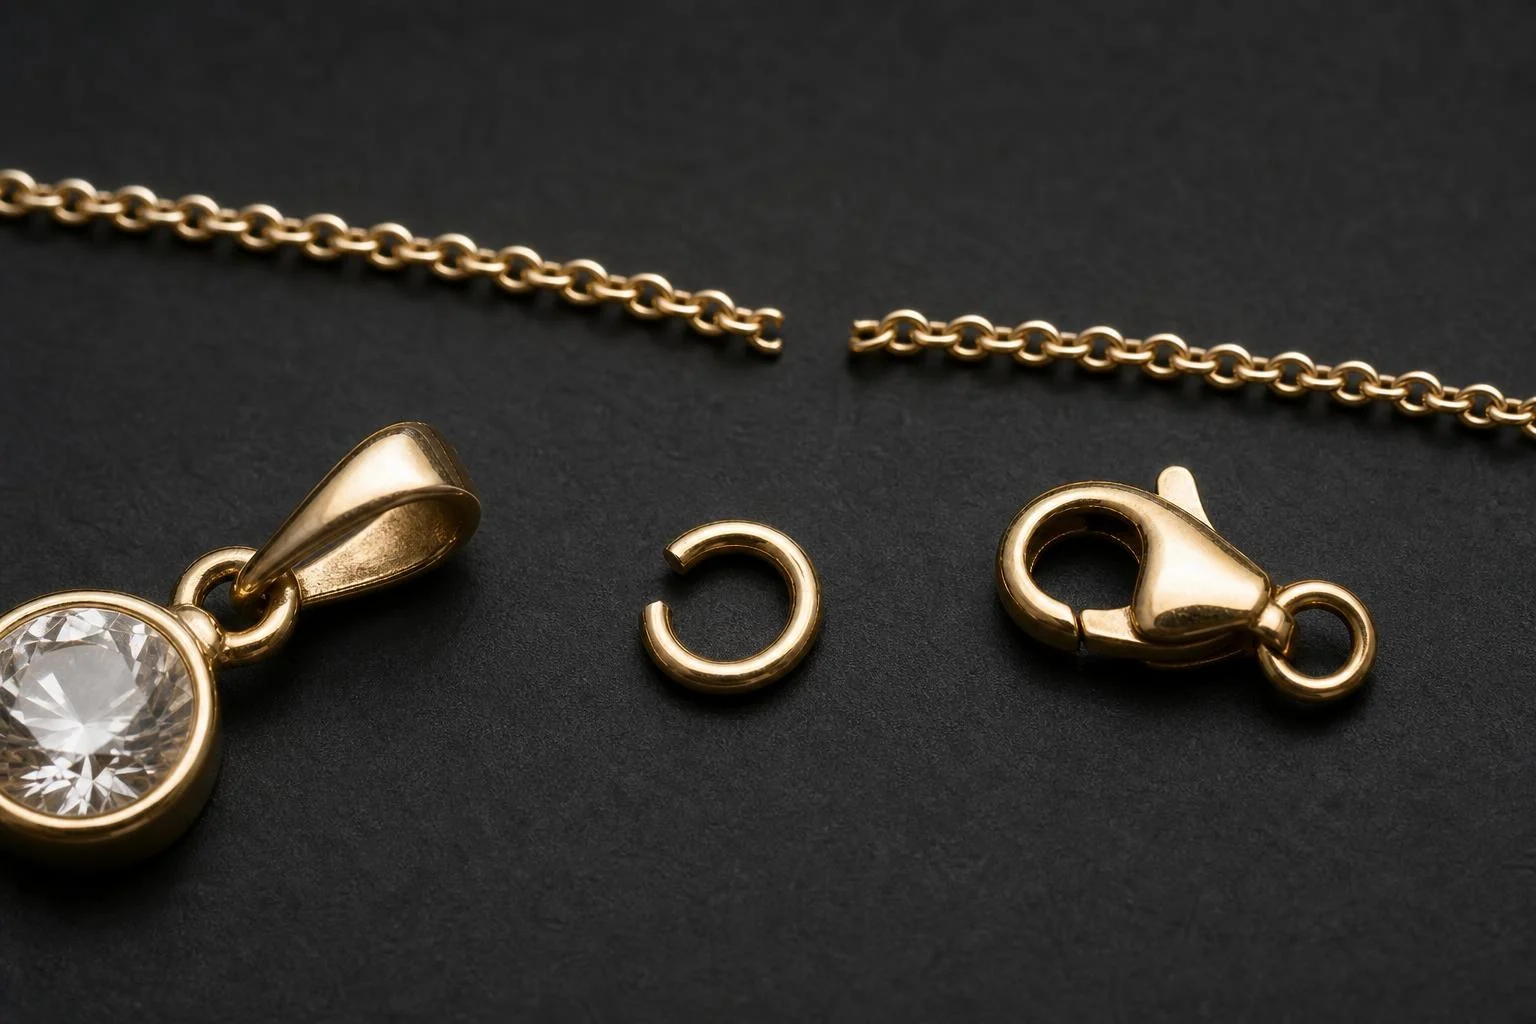
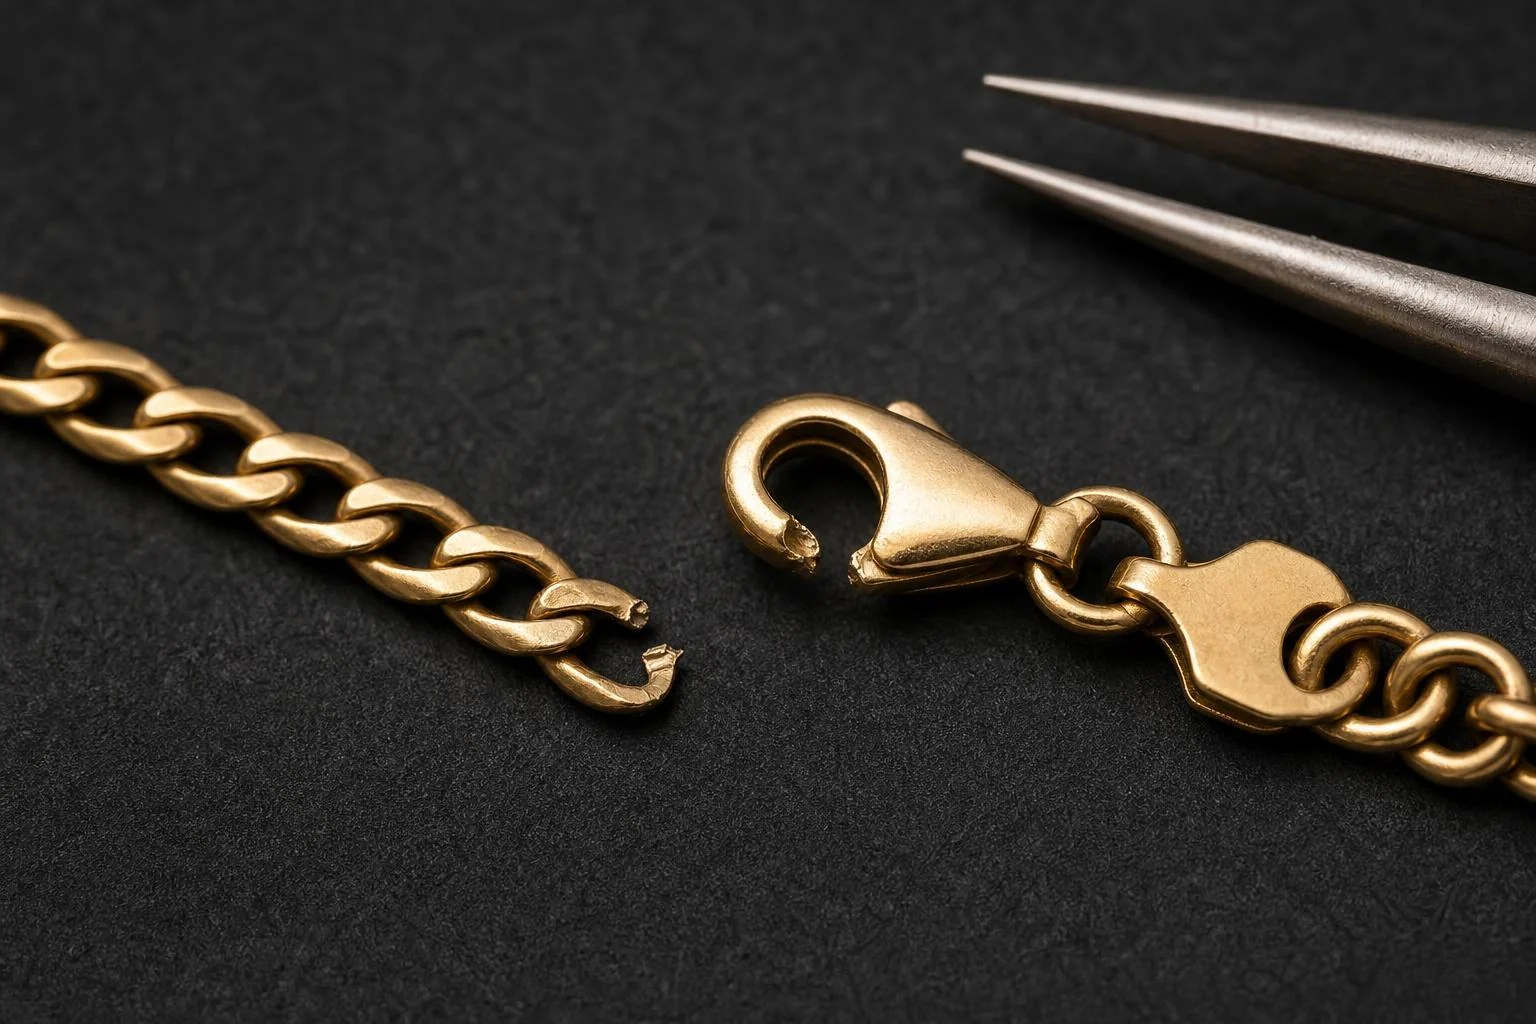
목걸이·팔찌 체인 수리 가이드 개편

diff --git a/pages/guide/necklace-bracelet-chain-repair.vue b/pages/guide/necklace-bracelet-chain-repair.vue
@@ -3,11 +3,11 @@ import { siteConfig } from '~/config/site'
 import { buildBreadcrumbJsonLd } from '~/utils/seo'
 
 const pagePath = '/guide/necklace-bracelet-chain-repair'
-const pageTitle = '목걸이 끊어짐 수리 전 확인할 곳 | 팔찌 체인·잠금장식 상담 | 귀족'
-const pageDescription = '목걸이·팔찌가 끊어졌다면 먼저 체인 중간, 잠금장식 연결부, 고리와 분실 부속을 확인하세요. 사진으로 1차 상담할 때 필요한 촬영 범위와 실물 확인 전 점검 순서를 정리했습니다.'
+const pageTitle = '목걸이 끊어짐과 팔찌 잠금장식 수리 전 확인할 것 | 귀족'
+const pageDescription = '목걸이나 팔찌가 끊어졌다면 체인 중간인지 잠금장식 연결부인지 먼저 구분하고, 제품 전체와 손상 부위를 함께 확인해야 합니다. 사진 상담 준비부터 실물 확인 전 주의할 점까지 정리했습니다.'
 const ogImage = `${siteConfig.url}/Image/guide/necklace-bracelet-chain-repair-hero.webp`
 const publishedAt = '2026-05-28'
-const updatedAt = '2026-08-05'
+const updatedAt = '2026-08-13'
 const faqItems = [
   {
     "question": "목걸이가 끊어졌는데 사진만으로 상담할 수 있나요?",
@@ -15,116 +15,113 @@ const faqItems = [
   },
   {
     "question": "팔찌 잠금장식만 교체할 수 있나요?",
-    "answer": "잠금장식 교체 여부는 기존 체인 굵기, 연결 고리 형태, 부속 수급 가능 여부와 제품 상태를 확인한 뒤 판단합니다."
+    "answer": "기존 체인 굵기와 연결 고리 형태, 잠금장식 상태, 분실 부속 여부를 확인한 뒤 교체 여부를 판단합니다. 가능 범위는 제품 상태와 상담 시점에 따라 달라질 수 있습니다."
   },
   {
     "question": "체인 중간이 끊어진 경우 어떤 방식으로 수리하나요?",
-    "answer": "손상된 링크를 확인하고 필요한 경우 손상 부위를 정리한 뒤 건전한 링크를 연결하고 납땜하는 방식이 사용될 수 있습니다. 체인 구조와 상태에 따른 최종 방식은 실물 확인이 필요합니다."
+    "answer": "손상된 고리를 확인하고 필요한 경우 손상 부위를 정리한 뒤 건전한 고리를 연결하고 납땜하는 방식이 사용될 수 있습니다. 체인 구조와 상태에 따른 최종 방식은 실물 확인이 필요합니다."
   },
   {
     "question": "수리할 때 세척이나 광택도 같이 맡길 수 있나요?",
-    "answer": "세척·광택을 함께 원하는 경우 상담할 때 요청할 수 있지만, 제공 여부와 작업 범위는 제품 상태와 매장 정책을 확인한 뒤 안내받아야 합니다."
+    "answer": "세척이나 광택을 함께 원하는 경우 상담할 때 요청할 수 있습니다. 제공 여부와 작업 범위는 제품 상태와 매장 안내를 확인한 뒤 결정됩니다."
   }
 ]
 
 const quickAnswers = [
-  "목걸이와 팔찌의 수리 방식은 끊어진 위치, 체인 형태, 잠금장식 상태와 분실 부속 여부를 실물로 확인해 정합니다.",
-  "사진 상담은 끊어진 부위만 확대하지 말고 제품 전체, 손상 부위 주변, 잠금장식과 연결 고리가 함께 보이게 촬영하면 좋습니다.",
-  "수령 희망일·세척 또는 광택 희망 여부는 상담 때 전달하되, 작업 가능 범위와 일정은 제품 상태를 확인한 뒤 안내받으세요."
+  "끊어진 위치가 체인 중간인지 잠금장식 연결부인지 먼저 구분하고, 체인 형태와 주변 마모 상태를 함께 확인하세요.",
+  "사진 상담에는 제품 전체, 손상 부위 확대, 잠금장식과 연결 고리, 따로 보관 중인 부속이 모두 보이도록 준비하세요.",
+  "작업 방식과 수리 가능 여부, 일정은 제품 상태와 상담 시점에 따라 달라질 수 있으므로 실물 확인 후 안내받으세요."
 ]
 
 const sections = [
   {
     "title": "제품 전체와 손상 부위를 함께 촬영하세요",
     "paragraphs": [
-      "사진으로 1차 상담을 준비할 때에는 끊어진 부분만 가까이 촬영하지 말고 제품 전체와 손상 부위 주변을 함께 촬영합니다. 상담에 필요한 정보는 체인 구조와 손상 위치를 함께 확인할 수 있어야 더 잘 전달됩니다."
+      "끊어진 부분만 확대하면 체인 구조와 손상 위치를 파악하기 어려울 수 있습니다. 제품 전체와 손상 부위 주변을 함께 촬영하면 1차 상담에 필요한 정보를 전달하는 데 도움이 됩니다."
     ],
     "bullets": [
       "제품 전체가 보이는 사진",
-      "끊어진 부위와 주변 링크를 확대한 사진",
-      "잠금장식과 연결 고리가 보이는 사진",
-      "분실되었거나 따로 보관 중인 부속 사진"
-    ],
-    "image": {
-      "src": "/Image/guide/necklace-bracelet-chain-repair-section-1.webp",
-      "alt": "목걸이 전체와 끊어진 체인 주변을 함께 촬영하는 모습",
-      "caption": ""
-    }
+      "끊어진 부위와 주변 고리를 확대한 사진",
+      "잠금장식과 체인 연결부가 보이는 사진",
+      "분리되었거나 따로 보관 중인 부속 사진"
+    ]
   },
   {
-    "title": "체인 중간·연결 고리·잠금장식으로 위치를 구분하세요",
+    "title": "끊어진 위치와 체인 구조를 구분하세요",
     "paragraphs": [
-      "같은 끊어짐이라도 손상된 위치가 체인 중간인지, 잠금장식 연결부인지, 고리인지, 펜던트 연결부인지에 따라 확인할 내용이 달라질 수 있습니다. 가는 체인은 손상된 링크 상태를 먼저 살핀 뒤, 필요한 경우 손상 부위를 정리합니다. 이후 건전한 링크를 다시 연결하고 납땜하는 방식이 사용될 수 있습니다."
+      "같은 끊어짐이라도 체인 중간, 잠금장식 연결부, 펜던트 연결부, 고리 중 어디에서 손상이 생겼는지에 따라 확인할 내용이 달라질 수 있습니다. 가는 체인은 손상된 고리를 확인하고 필요한 경우 손상 부위를 정리한 뒤 건전한 고리를 연결하고 납땜하는 방식이 사용될 수 있습니다."
     ],
     "bullets": [
-      "체인 중간의 링크가 끊어졌는지 확인",
+      "체인 중간의 고리가 끊어졌는지 확인",
       "잠금장식과 체인을 잇는 고리가 벌어지거나 변형되었는지 확인",
       "펜던트 연결부의 고리와 체인 손상을 구분",
-      "체인 링크의 형태와 손상 부위 주변 상태 확인"
+      "체인 종류와 링크 형태, 주변 마모 상태를 확인",
+      "로프 체인이나 케이블 체인처럼 구조가 복잡한지 확인"
     ],
     "image": {
       "src": "/Image/guide/necklace-bracelet-chain-repair-section-2.webp",
       "alt": "체인 중간과 잠금장식 연결 고리의 손상 위치를 비교하는 모습",
-      "caption": ""
+      "caption": "끊어진 위치와 체인 구조를 구분하세요에서 확인할 부분을 보여주는 이미지입니다."
     }
   },
   {
     "title": "팔찌 잠금장식은 체인과 부속을 함께 확인하세요",
     "paragraphs": [
-      "팔찌 잠금장식의 교체 여부는 기존 체인 굵기와 연결 고리 형태, 분실 부속 여부 및 제품 상태를 확인한 뒤 판단합니다. 상담에는 잠금장식만 보이는 사진보다 체인 끝과 연결부가 함께 보이는 사진이 더 적합합니다."
+      "잠금장식만 분리해 확인하기보다 체인 끝과 연결 고리까지 함께 살펴야 합니다. 체인과 잠금장식의 재조립과 재납땜, 손상된 박스형 잠금장식 부품의 수리나 와이어 부품 설치가 작업에 포함될 수 있으나, 실제 범위는 제품 상태를 확인한 뒤 판단합니다."
     ],
     "bullets": [
-      "잠금장식 전체 형태",
+      "잠금장식의 전체 형태",
       "체인 굵기와 연결 고리 형태",
-      "잠금이 헐거운지 또는 파손되었는지",
-      "분실된 고리·부속이 있는지",
-      "이전에 수리한 흔적이 있는지"
-    ],
-    "image": {
-      "src": "/Image/guide/necklace-bracelet-chain-repair-section-3.webp",
-      "alt": "팔찌 잠금장식과 체인 연결부를 점검하는 모습",
-      "caption": ""
-    }
+      "잠금이 헐거운지 또는 부품이 파손되었는지",
+      "분실된 고리나 부속이 있는지",
+      "이전에 수리한 흔적이나 변형이 있는지"
+    ]
   },
   {
     "title": "사진 상담부터 실물 확인까지의 순서",
     "paragraphs": [
-      "사진 상담은 제품 구조와 손상 위치를 파악하기 위한 1차 확인입니다. 실제 작업 가능 범위와 연결 또는 부속 관련 판단은 제품 상태를 확인한 뒤 안내받습니다. 필요한 추가 작업과 일정도 같은 확인 후 안내받습니다."
+      "사진 상담은 제품 구조와 손상 위치를 파악하기 위한 1차 확인입니다. 작업 가능 범위, 필요한 부속, 수리 방식과 일정은 실물 확인 후 안내받는 것이 적절합니다."
     ],
     "bullets": [
-      "제품 전체·손상 부위·잠금장식 사진 준비",
-      "체인 중간·연결 고리·잠금장식 중 손상 위치 구분",
-      "분실 부속, 이전 수리 이력, 소재를 알고 있다면 함께 전달",
-      "수령 희망일과 세척·광택 희망 여부 전달",
-      "실물 확인 후 최종 작업 범위와 상담 내용 확인"
-    ]
+      "제품 전체와 손상 부위 사진 준비",
+      "체인 중간, 연결 고리, 잠금장식 중 손상 위치 구분",
+      "소재를 알고 있다면 소재 정보 전달",
+      "분실 부속과 이전 수리 이력 전달",
+      "수령 희망일과 세척 또는 광택 희망 여부 전달",
+      "실물 확인 후 작업 범위와 상담 내용 확인"
+    ],
+    "image": {
+      "src": "/Image/guide/necklace-bracelet-chain-repair-section-4.webp",
+      "alt": "사진 상담부터 실물 확인까지의 순서 예시 이미지",
+      "caption": "사진 상담부터 실물 확인까지의 순서에서 확인할 부분을 보여주는 이미지입니다."
+    }
   },
   {
-    "title": "수리 전 함께 확인할 관리 사항",
+    "title": "수리 전에는 손상 부위를 더 움직이지 마세요",
     "paragraphs": [
-      "손상된 체인은 억지로 굽히거나 강한 힘으로 당기지 않는 편이 좋습니다. 손상 부위를 임의로 조정하기보다 분리된 부속을 함께 보관하고, 전문 수리 상담에서 제품 전체와 연결부 상태를 보여주세요. 은 소재 목걸이는 끊어짐 외에 잠금장치와 변색 상태를 함께 확인할 수 있으며, 진주 목걸이는 체인 수리와 달리 줄 교체 기준을 살펴볼 필요가 있습니다."
+      "끊어진 체인을 억지로 굽히거나 당기면 남아 있는 고리와 연결부가 더 변형될 수 있습니다. 분리된 부속은 버리지 말고 함께 보관한 뒤 제품 전체와 연결부 상태를 수리 상담에서 보여주세요."
     ],
     "bullets": [
-      "손상 부위를 억지로 당기거나 펴지 않기",
-      "분리된 부속은 버리지 말고 함께 보관하기",
-      "체인 전체의 마모나 변형도 함께 확인하기",
-      "은 소재 목걸이는 끊어짐·잠금장치·변색 상태를 구분해 확인하기",
-      "진주 목걸이는 줄 교체 기준을 별도로 확인하기"
+      "손상 부위를 강한 힘으로 당기거나 펴지 않기",
+      "분리된 부속을 작은 봉투에 따로 보관하기",
+      "체인 전체의 마모와 변형도 함께 확인하기",
+      "세척이나 광택을 원하면 상담 때 미리 전달하기"
     ]
   }
 ]
 
 const cautions = [
-  "체인의 구조와 링크 형태, 마모 정도에 따라 확인해야 할 작업 범위가 달라질 수 있습니다.",
+  "체인 종류와 링크 형태, 마모 정도에 따라 수리 난이도와 작업 범위가 달라질 수 있습니다.",
+  "체인은 끊어진 부위를 수리한 뒤 원래 상태보다 강하지 않을 수 있으므로 착용 전 수리자의 점검과 관리 안내를 확인하세요.",
   "부속 분실, 이전 수리 흔적, 연결부 변형이 있으면 사진만으로 최종 작업 방식이나 일정을 확정하기 어렵습니다.",
-  "세척·광택 제공 여부와 수리 가능 범위는 제품 상태와 상담 시점의 매장 안내를 확인해야 합니다."
+  "불꽃이나 납땜 도구를 사용하는 자가 수리는 피하고, 손상 상태를 그대로 보존해 전문 수리 상담을 받는 편이 좋습니다."
 ]
 
 const relatedLinks = [
   {
     "to": "/guide/silver-necklace-repair-possible",
-    "label": "은목걸이 수리 가능 여부, 끊어짐·잠금장치·변색별로 정리",
-    "description": "은 소재 목걸이의 끊어짐, 잠금장치 문제, 변색별 확인 기준을 정리했습니다."
+    "label": "은목걸이 수리 가능 여부, 끊어짐·잠금장식·변색별로 정리",
+    "description": "은 소재 목걸이의 끊어짐, 잠금장식 문제와 변색 상태를 상담 전에 확인하는 방법을 정리했습니다."
   },
   {
     "to": "/guide/pearl-necklace-restringing",
@@ -133,30 +130,40 @@ const relatedLinks = [
   },
   {
     "to": "/guide/necklace-clasp-types",
-    "label": "목걸이 잠금장치 종류, 스프링링·랍스터·토글 차이",
-    "description": "잠금장식 형태와 연결 구조를 비교해 상담 전 확인할 수 있습니다."
+    "label": "목걸이 잠금장식 종류, 스프링링·랍스터·토글 차이",
+    "description": "잠금장식 형태와 연결 구조를 비교해 수리 상담 전에 확인할 수 있습니다."
   }
 ]
 
 // guide-manager:data:start
-const gmArticleTitle = '목걸이 끊어짐 수리 전 확인할 곳 | 팔찌 체인·잠금장식 상담'
-const gmArticleLead = '목걸이나 팔찌가 끊어졌다면 먼저 제품 전체와 손상 부위를 함께 확인합니다. 체인 형태와 끊어진 위치, 잠금장식 및 연결 고리 상태, 분실된 부속 여부에 따라 확인할 작업 범위가 달라질 수 있습니다. 따라서 사진 상담은 참고용으로 활용하고, 최종 판단은 실물 확인 후 받습니다.'
+const gmArticleTitle = '목걸이 끊어짐과 팔찌 잠금장식 수리 전 확인할 것'
+const gmArticleLead = '목걸이와 팔찌의 수리 방식은 끊어진 위치, 체인 구조, 잠금장식과 연결 고리 상태, 분실된 부속 여부에 따라 달라질 수 있습니다. 사진은 1차 상담에 활용하고, 최종 작업 범위와 가능 여부는 실물 확인 후 안내받으세요.'
 const gmArticleCategory = '수리'
 const gmArticleKeyword = '목걸이 끊어짐 팔찌 잠금장식 수리'
-const gmInquiryType = 'repair' as const
-const gmInquiryTopic = '목걸이·팔찌 체인 수리'
+const gmInquiryType = 'custom' as const
+const gmInquiryTopic = '목걸이·팔찌 체인과 잠금장식 수리 상담'
 const gmHeroAlt = '끊어진 목걸이 체인과 팔찌 잠금장식을 확인하는 수리 상담 장면'
-const gmSourceNote = '체인 수리 원리와 일반적인 주얼리 관리 주의는 승인된 GIA 자료를 바탕으로 정리했습니다. 개별 제품의 수리 가능 여부, 부속 수급, 가격, 일정, 세척·광택 제공 여부는 사업자 상담과 실물 확인이 필요합니다.'
+const gmSourceNote = '체인 수리 원리와 잠금장식 관련 작업 범위는 승인된 Gemological Institute of America와 Jewelers of America 자료를 바탕으로 정리했습니다. 개별 제품의 수리 가능 여부, 부속 수급, 가격, 일정, 세척과 광택 제공 여부는 사업자 상담과 실물 확인이 필요합니다.'
 const gmSources = [
   {
-    "label": "GIA — Bench Tip: Repair a Fine Chain with a Soldering Technique",
+    "label": "Gemological Institute of America, Bench Tip #5: Repair a Fine Chain with a Soldering Technique",
     "url": "https://www.gia.edu/bench-tip-repair-fine-chain-with-soldering-technique",
-    "note": "손상된 링크를 확인하고 필요한 경우 손상 부위를 제거한 뒤 연결하고 납땜하는 일반적인 가는 체인 수리 원리를 설명합니다."
+    "note": "가는 체인의 손상 고리를 제거하고 연결한 뒤 납땜하는 수리 절차와 작업상 주의점을 설명하는 공식 기술 자료입니다."
   },
   {
-    "label": "GIA — Tips on Caring for Jewelry",
-    "url": "https://www.gia.edu/articles/gia-news-research-tips-caring-jewelry",
-    "note": "주얼리 관리와 전문 보석상 점검에 관한 공식 소비자 안내입니다."
+    "label": "Jewelers of America, Jewelry Repair",
+    "url": "https://www.jewelers.org/buying-jewelry/jewelry-repair-and-care/jewelry-repair",
+    "note": "체인 수리의 일반적 결과, 수리 후 강도와 체인 종류별 난이도, 수리 전 확인 사항을 설명하는 공식 소비자 안내입니다."
+  },
+  {
+    "label": "Jewelers of America, Bench Professional Certification Program Sample Tests",
+    "url": "https://www.jewelers.org/images/careers/JA-BenchCertification-SampleTest-2023.pdf",
+    "note": "전문 보석 수리 실기 항목으로 체인과 잠금장식 재조립 및 재납땜, 박스 잠금장식 부품 수리를 제시합니다."
+  },
+  {
+    "label": "Gemological Institute of America, Graduate Jeweler Program",
+    "url": "https://www.gia.edu/gem-education/program-graduate-jeweler",
+    "note": "보석 제작과 수리 교육 과정에 납땜, 체인 조립, 잠금장식 제작과 레이저 용접이 포함됨을 설명합니다."
   }
 ]
 // guide-manager:data:end

diff --git a/data/guide-posts.ts b/data/guide-posts.ts
@@ -647,12 +647,12 @@ export const guidePosts: GuidePostSummary[] = [
   {
     slug: 'necklace-bracelet-chain-repair',
     path: '/guide/necklace-bracelet-chain-repair',
-    title: '목걸이 끊어짐 수리 전 확인할 곳 | 팔찌 체인·잠금장식 상담',
-    description: '목걸이·팔찌가 끊어졌다면 먼저 체인 중간, 잠금장식 연결부, 고리와 분실 부속을 확인하세요. 사진으로 1차 상담할 때 필요한 촬영 범위와 실물 확인 전 점검 순서를 정리했습니다.',
+    title: '목걸이 끊어짐과 팔찌 잠금장식 수리 전 확인할 것',
+    description: '목걸이나 팔찌가 끊어졌다면 체인 중간인지 잠금장식 연결부인지 먼저 구분하고, 제품 전체와 손상 부위를 함께 확인해야 합니다. 사진 상담 준비부터 실물 확인 전 주의할 점까지 정리했습니다.',
     keyword: '목걸이 끊어짐 팔찌 잠금장식 수리',
     image: '/Image/guide/necklace-bracelet-chain-repair-hero.webp',
     publishedAt: '2026-05-28',
-    updatedAt: '2026-08-05',
+    updatedAt: '2026-08-13',
     category: '수리',
   },
   {
